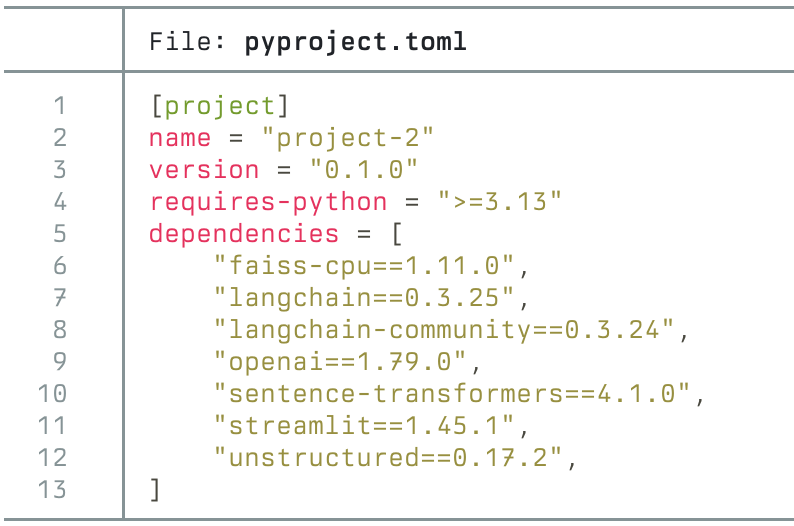
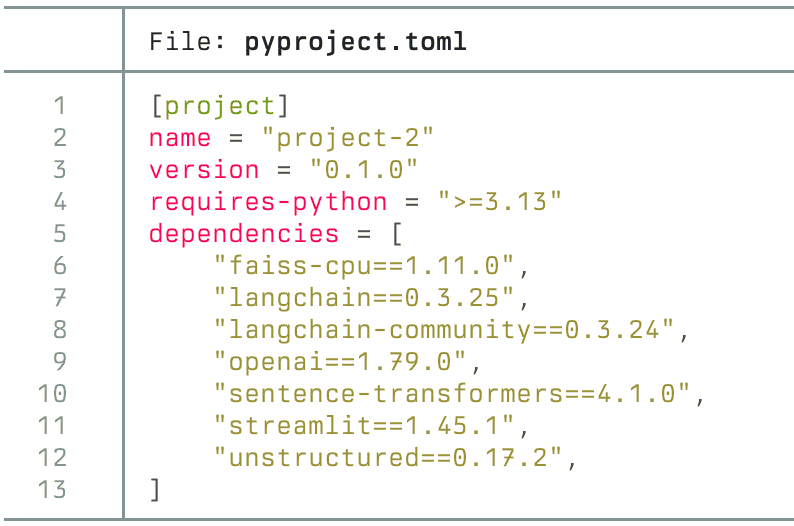
squish image and make it a figure to scale it propertly on the page

diff --git a/content/blog/2025-10-14/uv-for-llm-experiments/index.md b/content/blog/2025-10-14/uv-for-llm-experiments/index.md
@@ -11,7 +11,7 @@ draft: false
 images: [pyproject.png]
 ---
 
-![code listing of the pyproject.toml file](pyproject.png)
+{{< figure src="pyproject.png" title="pyproject.toml for an LLM project" >}}
 
 I'm a `uv` convert.
 It's a much faster way to set up isolated virtual environments for Python than other methods that I've used, including Anaconda and the `venv` + `pip` combination.
